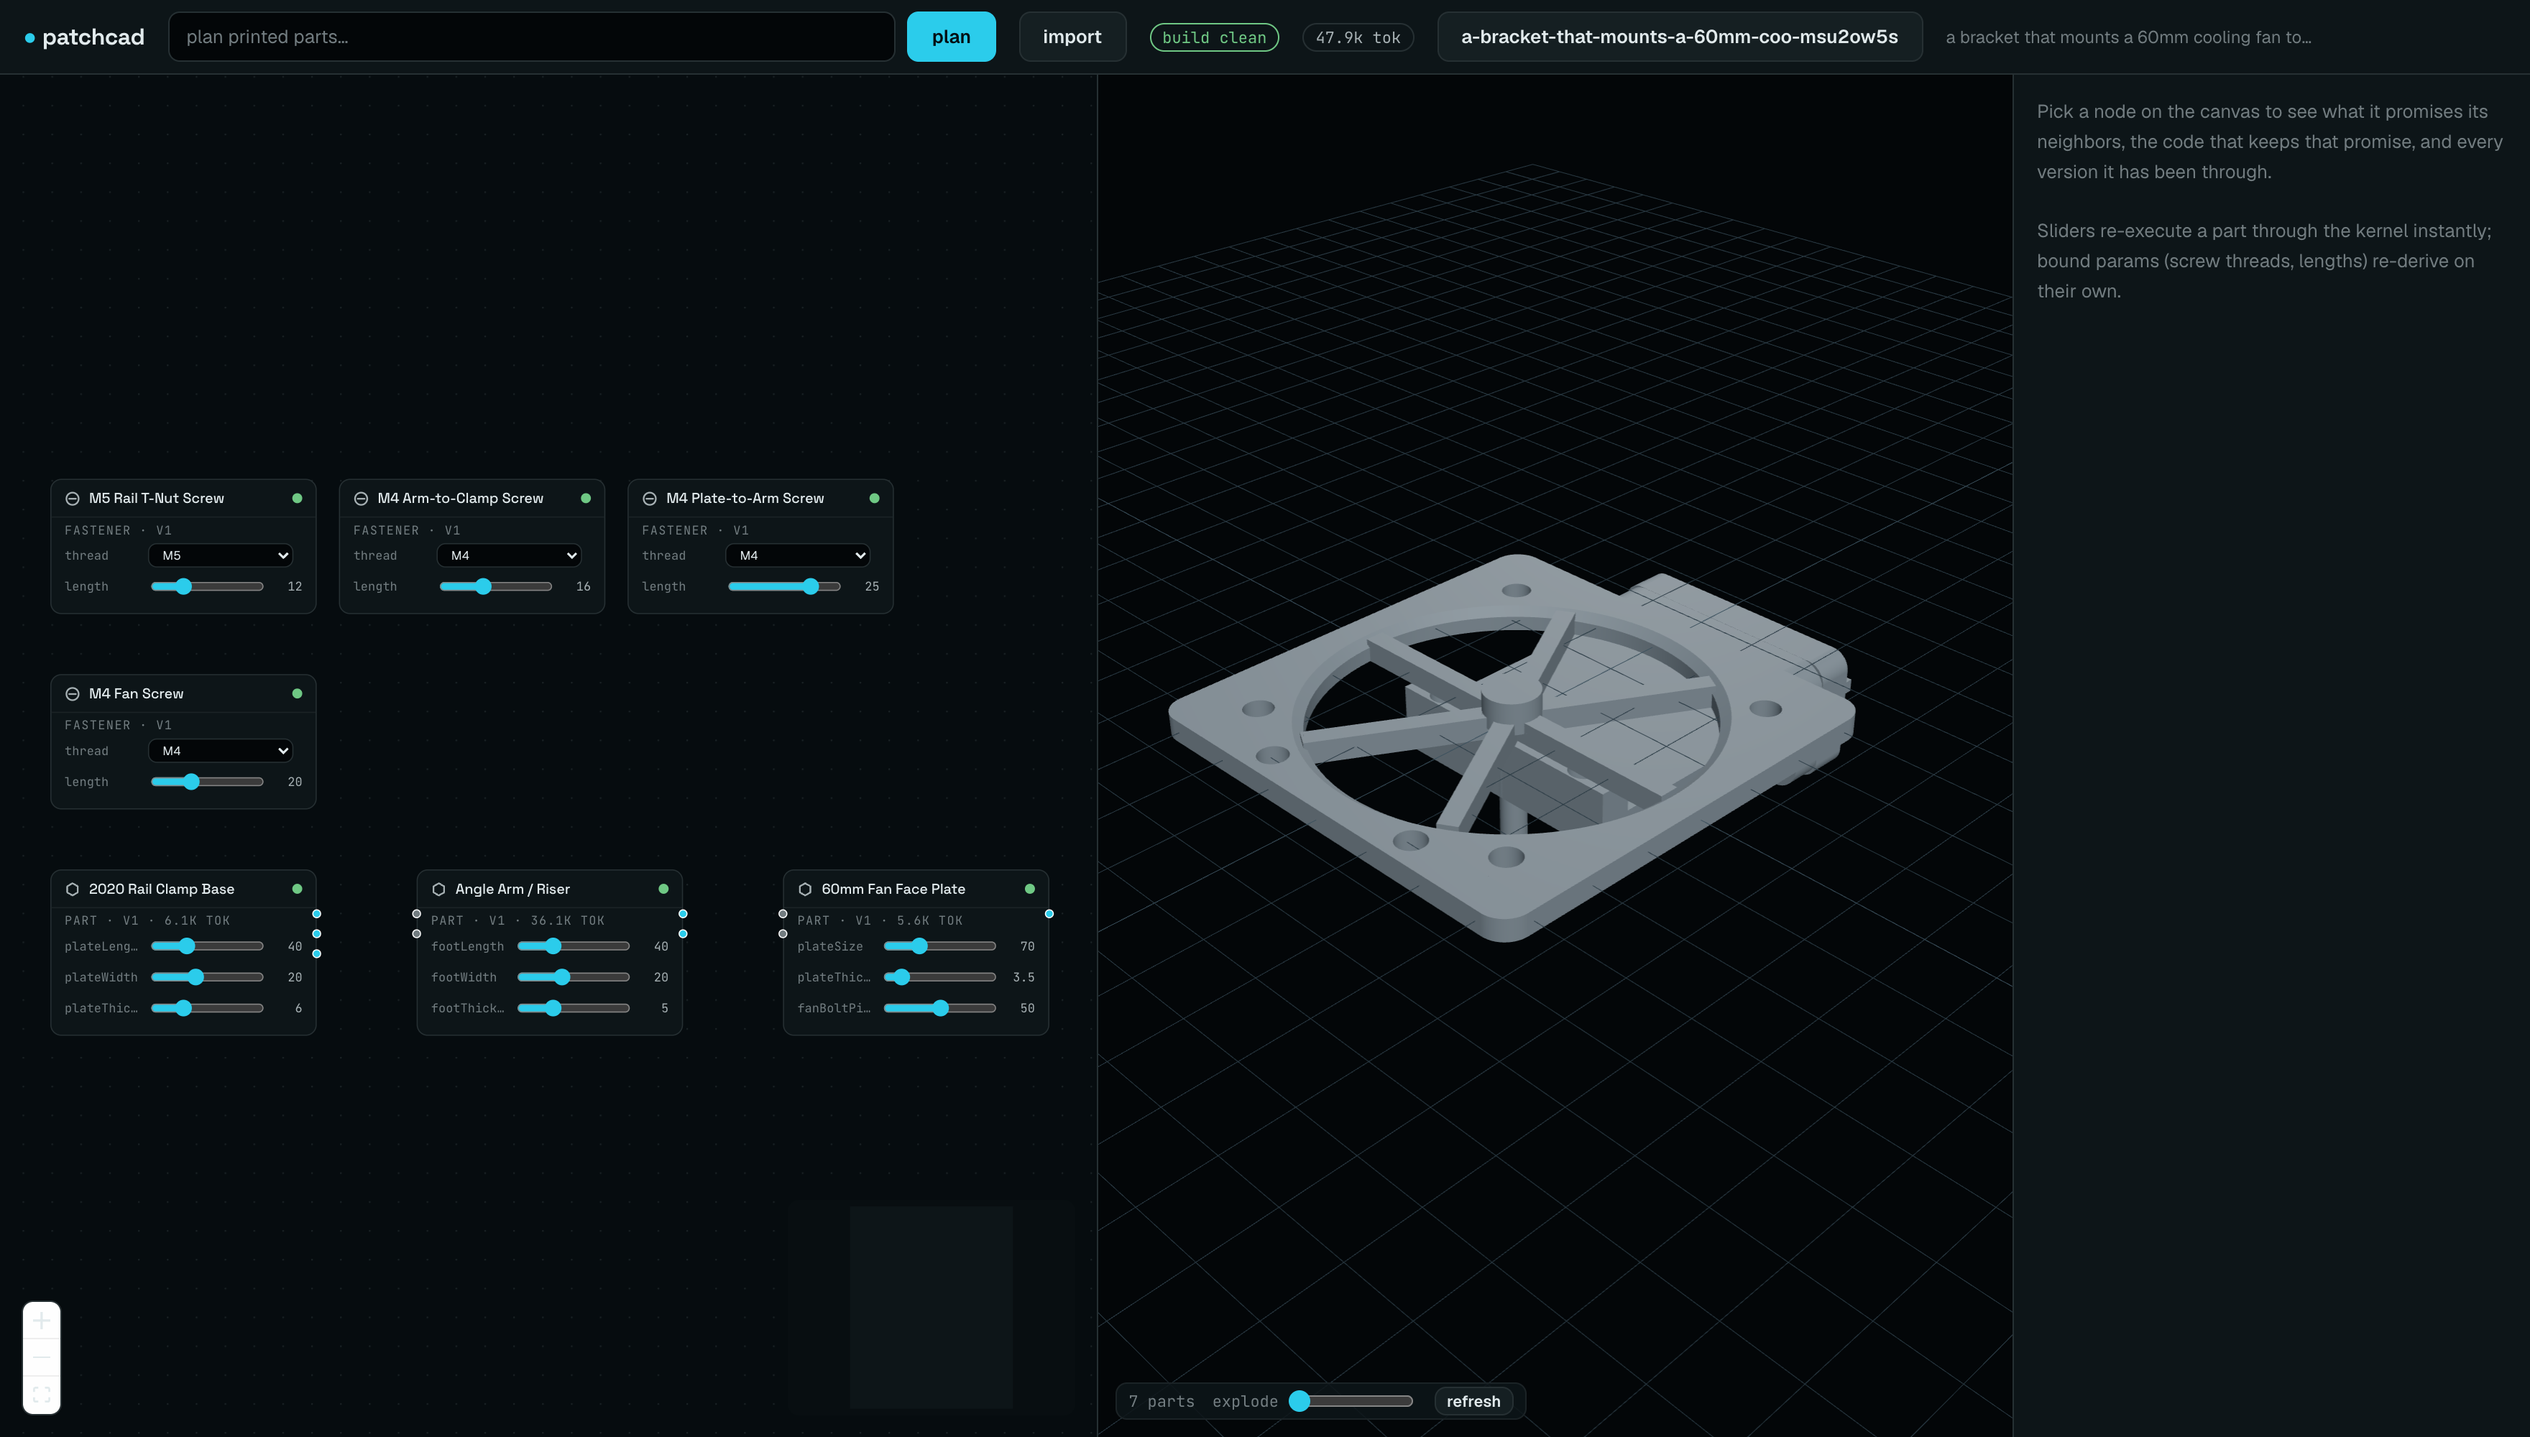
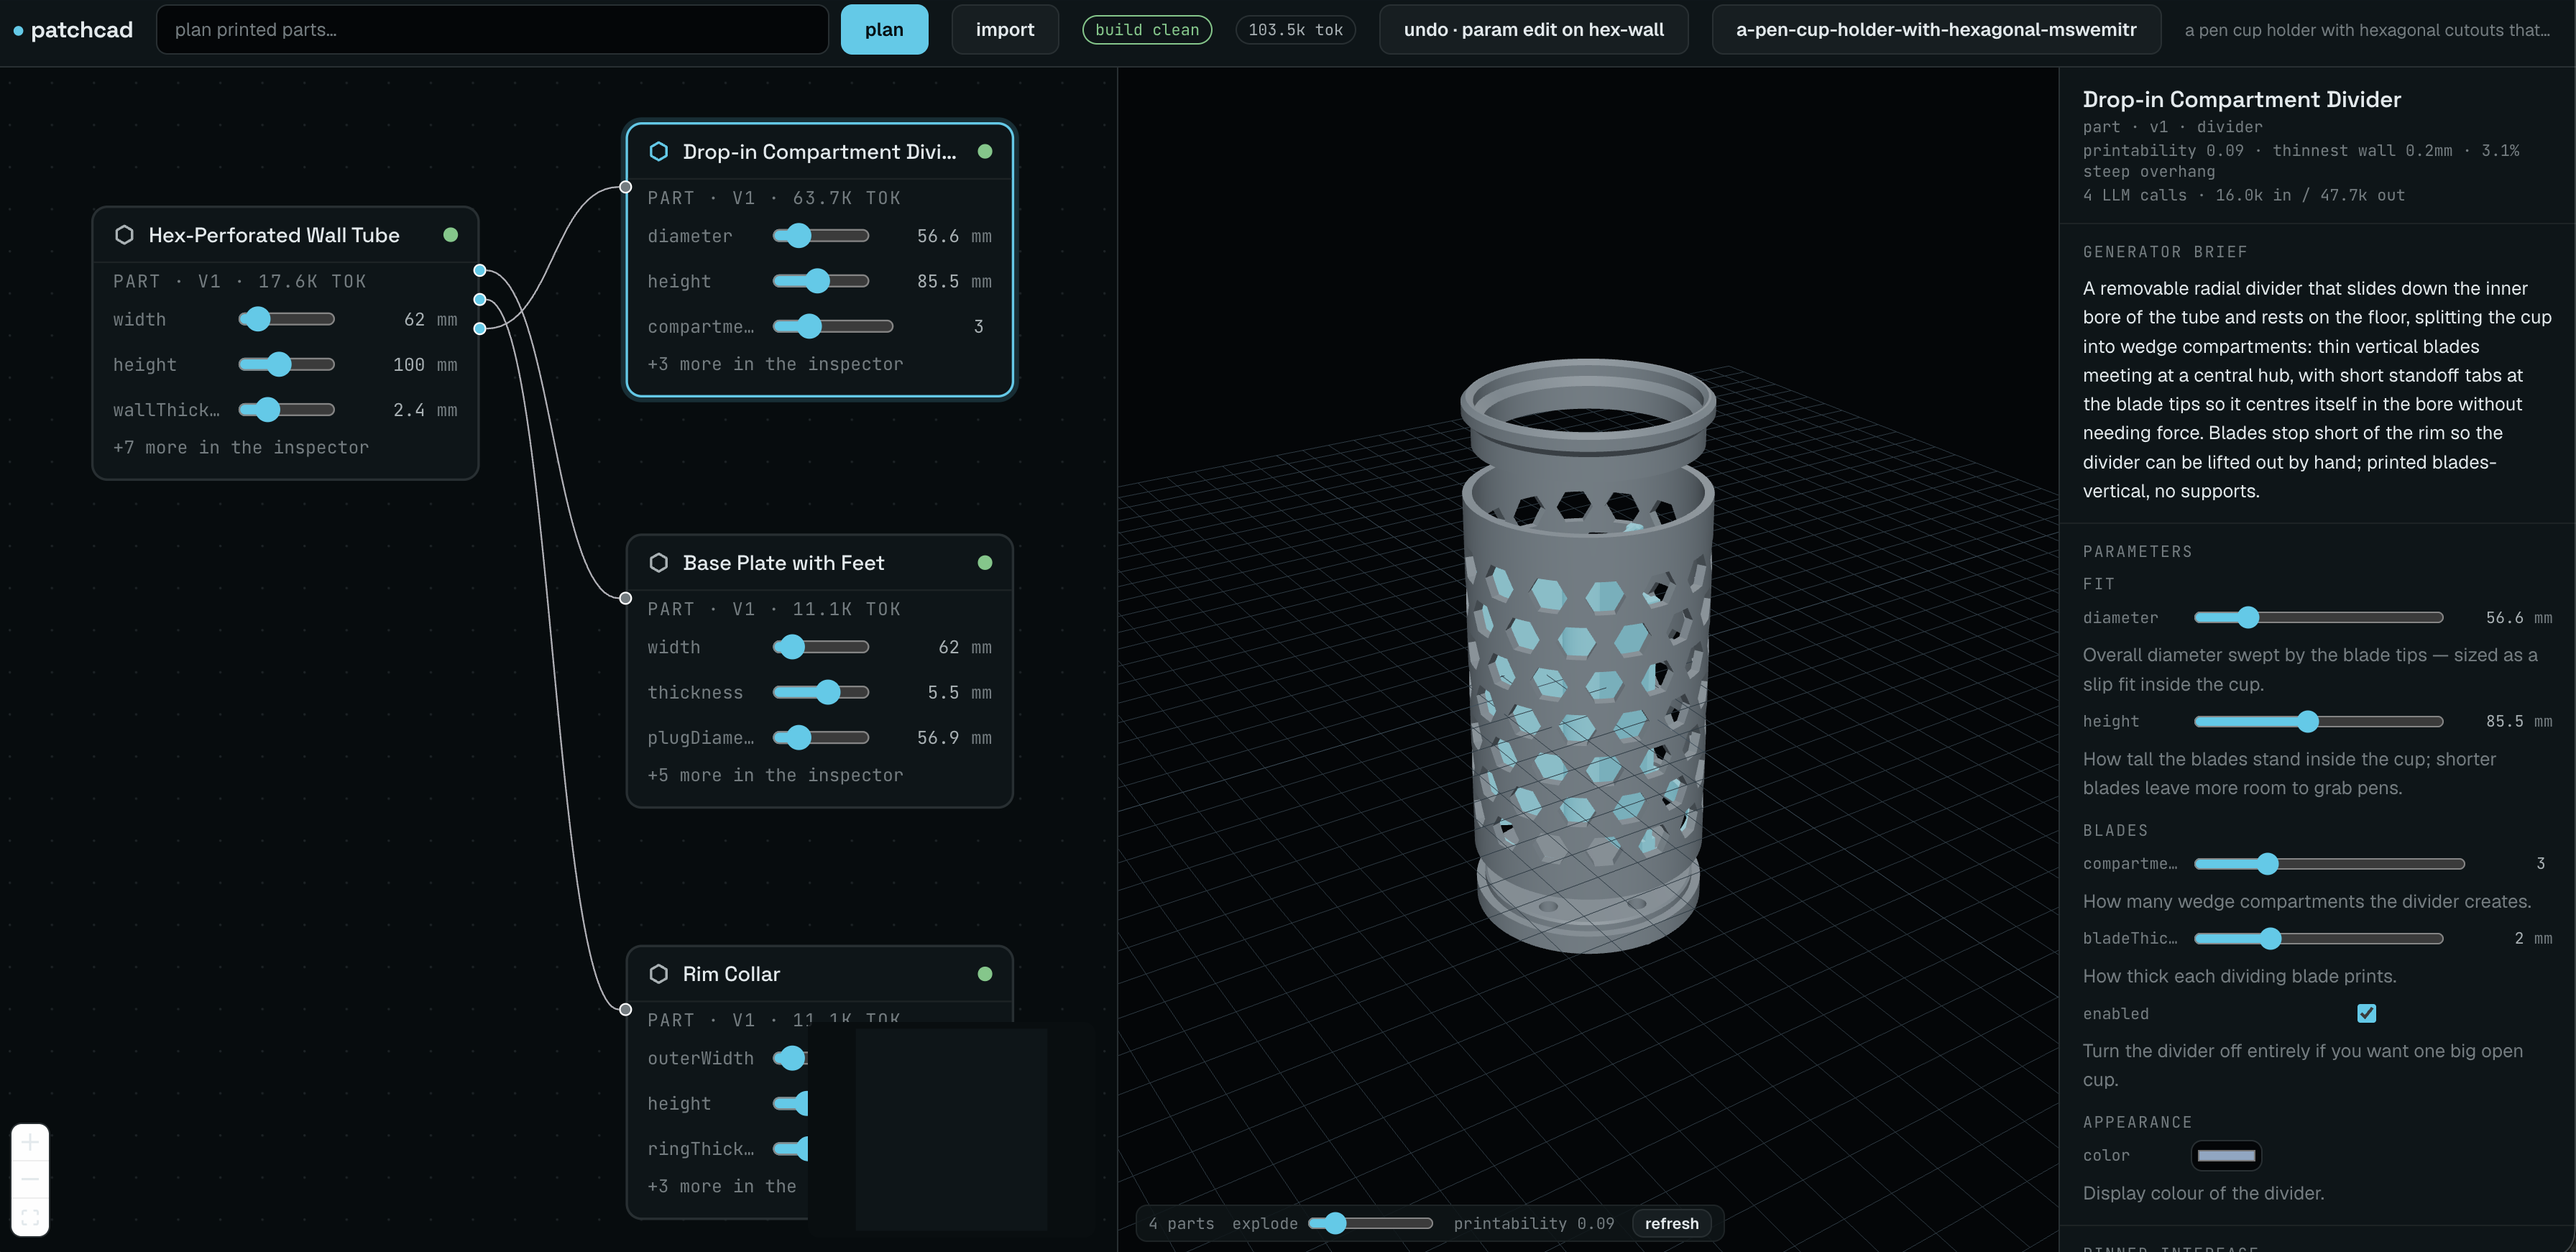
README: a pen cup holder instead of the fan bracket
The old shot predated everything in this stack. The new one shows what
actually changed: the inspector listing a part's full parameter set, grouped
into FIT / BLADES / APPEARANCE and described in plain words — both of which
the architect now emits — plus the "+N more in the inspector" overflow line on
the node faces, and printability reported alongside.

Caption rewritten to describe the run in the picture rather than the previous one.

diff --git a/README.md b/README.md
@@ -5,12 +5,13 @@
 > notice, and fast-moving internals. See [Status & limitations](#status--limitations)
 > before trying it.
 
-![the patchcad studio: a prompt-planned fan bracket as a node graph with live params, assembled in the viewport](docs/studio.png)
+![the patchcad studio: a prompt-planned pen cup holder as a node graph with live params, assembled in the viewport](docs/studio.png)
 
-*"A bracket that mounts a 60mm cooling fan to 2020 extrusion" — the architect
-planned seven nodes with pinned contracts (three printed parts, four registry
-fasteners), every part generated and gate-verified, and the sliders are live:
-thread and length re-derive from the parts they fasten, with zero LLM calls.*
+*"A pen cup holder with hexagonal cutouts that is 75mm wide, to be 3D printed" —
+the architect planned four printed parts with pinned contracts, each generated
+hermetically and gate-verified against its own geometry. The inspector shows the
+divider's parameters as the architect grouped and described them; every slider
+re-executes through the geometry kernel with zero LLM calls.*
 
 Prompt-to-app on a TouchDesigner-style node canvas. Type a goal → an architect
 model plans a **graph of nodes with pinned interface contracts** → parallel
